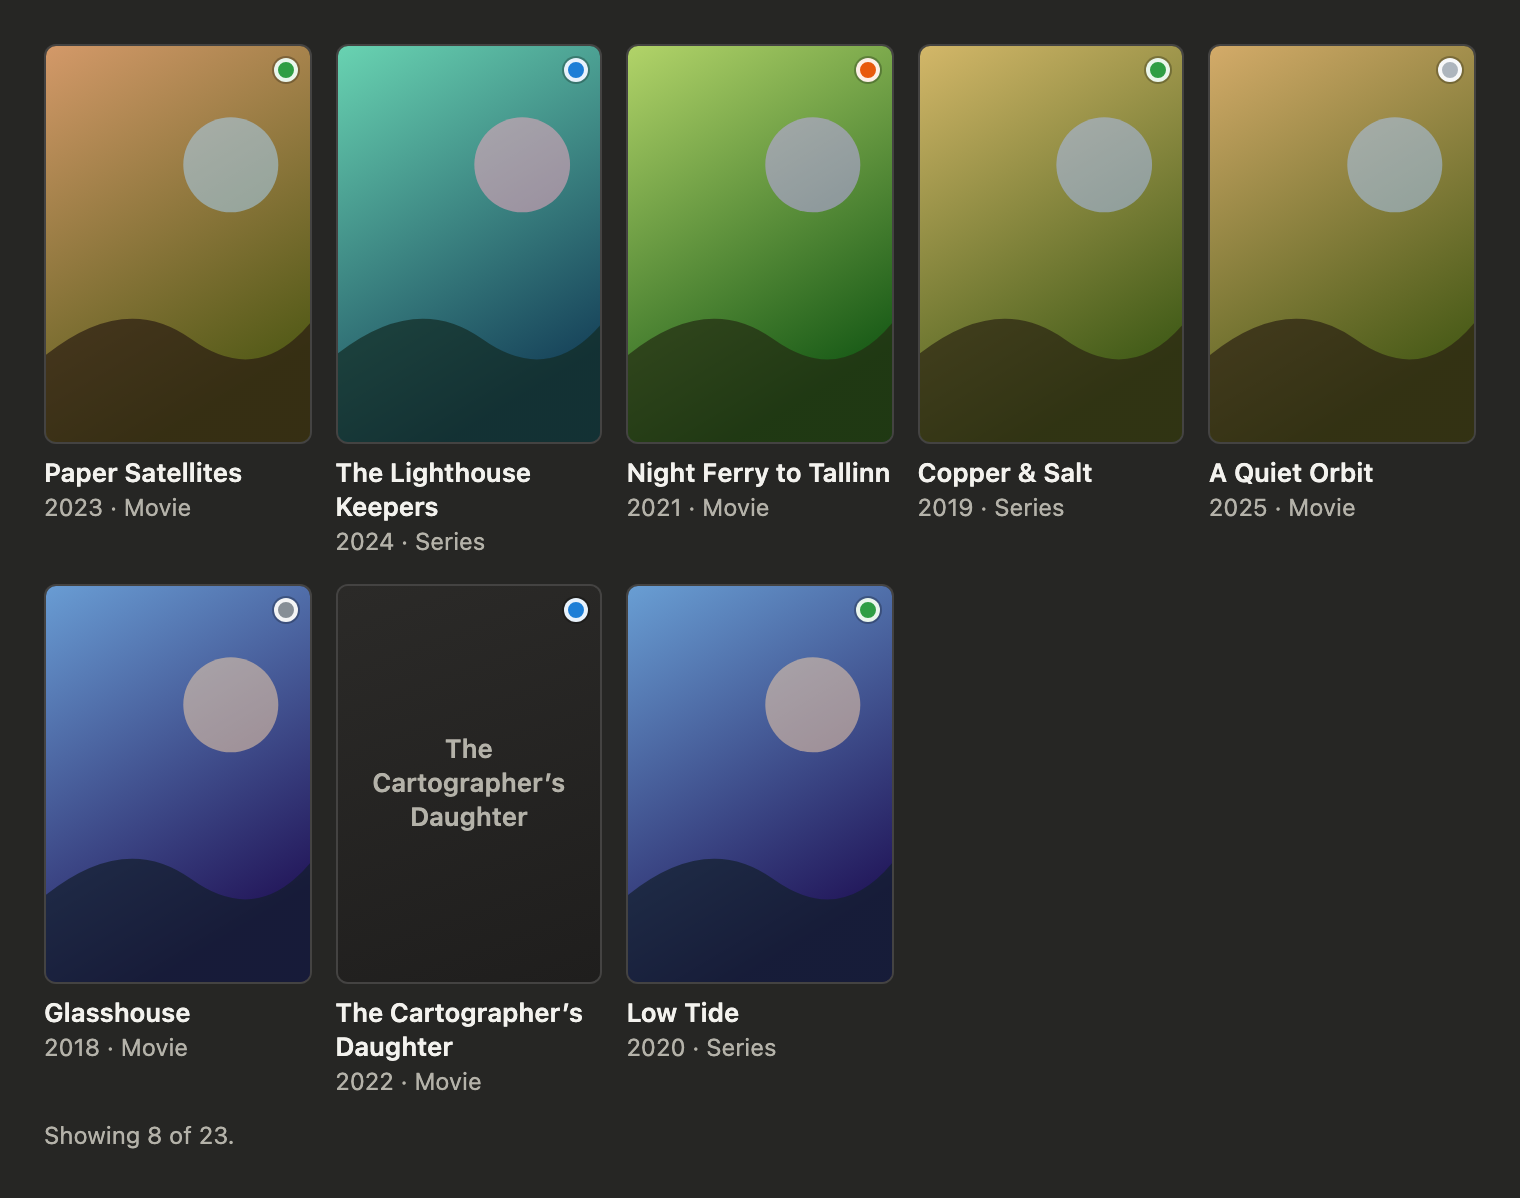
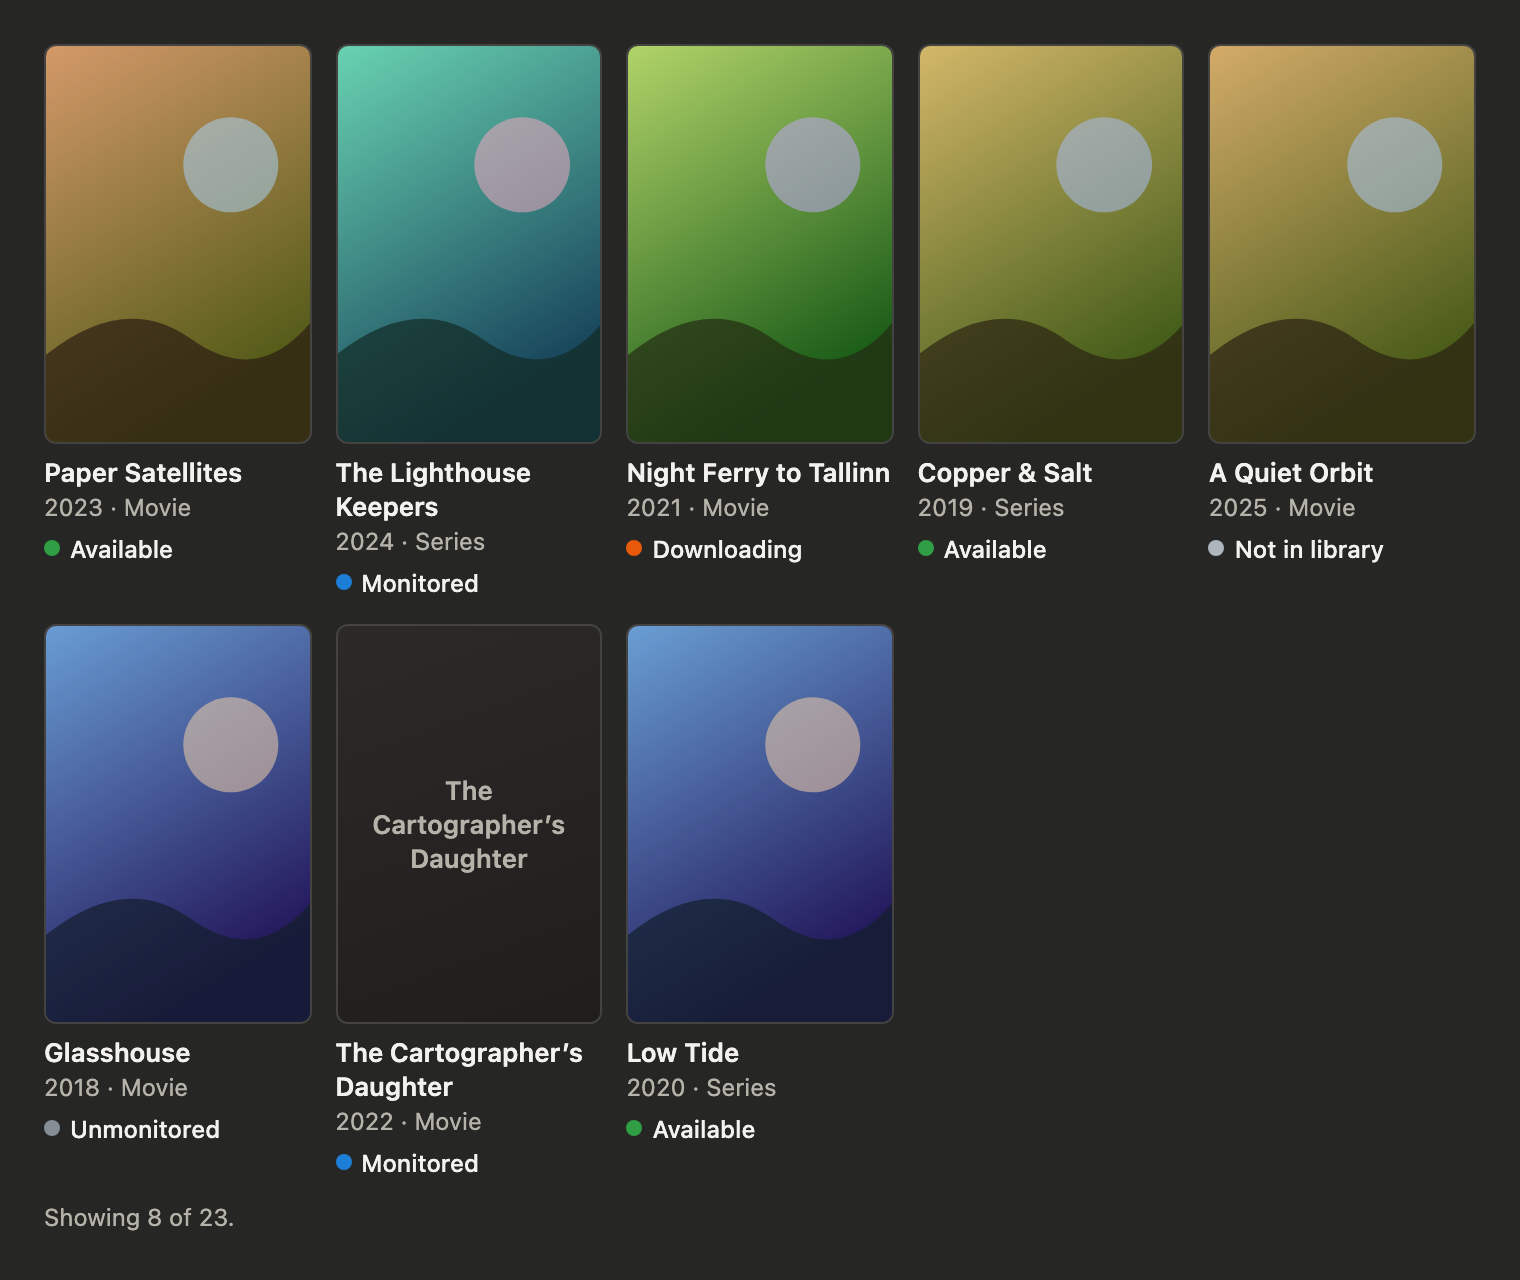
feat(mcp): label each grid card with its status
A coloured dot on the poster said nothing without a legend. Each tile now
reads its status under the year, in the same words and colour as the
detail card.

diff --git a/src/ui/cardView.ts b/src/ui/cardView.ts
@@ -87,7 +87,8 @@ html, body { margin: 0; background: transparent; color: var(--fg); font: 14px/1.
 
 .grid { display: grid; grid-template-columns: repeat(auto-fill, minmax(112px, 1fr)); gap: 12px; }
 .tile { min-width: 0; }
-.tile .dot { position: absolute; top: 6px; right: 6px; width: 12px; height: 12px; border-radius: 50%; background: var(--status); border: 2px solid rgba(255, 255, 255, 0.9); box-shadow: 0 0 0 1px rgba(0, 0, 0, 0.25); }
+.tile .state { display: flex; align-items: center; gap: 5px; margin-top: 3px; font-size: 12px; font-weight: 500; color: var(--fg); }
+.tile .state::before { content: ""; flex: 0 0 8px; height: 8px; border-radius: 50%; background: var(--status); }
 .tile .name { margin-top: 6px; font-size: 13px; font-weight: 600; line-height: 1.3; display: -webkit-box; -webkit-line-clamp: 2; -webkit-box-orient: vertical; overflow: hidden; }
 .tile .sub { font-size: 12px; color: var(--fg-2); }
 .more { margin-top: 10px; font-size: 12px; color: var(--fg-2); }
@@ -281,12 +282,10 @@ html, body { margin: 0; background: transparent; color: var(--fg); font: 14px/1.
     node.style.setProperty("--status", status.color);
     node.title = title + (card.year ? " (" + card.year + ")" : "") + " — " + status.label;
     var art = artwork(card, title);
-    var dot = el("span", "dot");
-    dot.setAttribute("aria-label", status.label);
-    art.appendChild(dot);
     node.appendChild(art);
     node.appendChild(el("div", "name", title));
     node.appendChild(el("div", "sub", [card.year, card.type === "series" ? "Series" : "Movie"].filter(Boolean).join(" · ")));
+    node.appendChild(el("div", "state", status.label));
     return node;
   }
 

diff --git a/README.md b/README.md
@@ -178,10 +178,10 @@ than a line of text. `get_media_details` shows one card: poster, blurred
 backdrop, synopsis, genres, runtime or seasons, episode progress, a status badge
 (available, monitored, downloading, unmonitored, not in library) with the
 quality profile, and links to TMDB and IMDb. `search_media`, `lookup_media` and
-`get_library` show a grid of up to twenty posters with a status dot.
+`get_library` show a grid of up to twenty posters, each with its status.
 
 <img src="screenshots/cards-detail-dark.png" alt="A detail card: poster, title and year, Series and Monitored badges, quality profile, seasons and genres, an episode progress bar, the synopsis and TMDB and IMDb links" width="560">
-<img src="screenshots/cards-grid-light.png" alt="A grid of poster tiles, each with a title, year, type and a coloured status dot; one tile without artwork shows its title on a plain background" width="560">
+<img src="screenshots/cards-grid-light.png" alt="A grid of poster tiles, each with a title, year, type and a coloured status label; one tile without artwork shows its title on a plain background" width="560">
 
 **Nothing to configure, and no TMDB key.** The artwork is what Radarr and Sonarr
 already hold (`remoteUrl`, from TMDB and TheTVDB) and the poster paths Seerr
